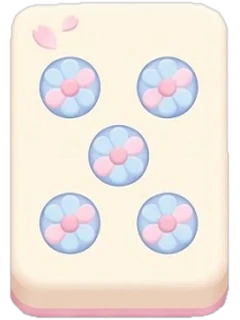
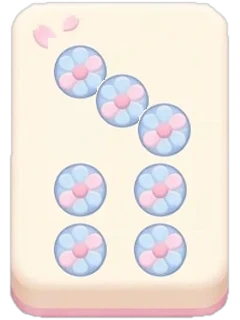
麻雀の七筒と赤五索の絵を直す
七筒の絵に丸が 5 つ描かれていた（五筒と同じ）ので、八筒の丸を使って
七つの丸の絵に作り直した。赤五索は「五」の字がなかったので、ふつうの
五索の竹を赤にした絵にした。
つよい CPU のオセロのテストが、遅い機械で 1 分の待ち時間をこえて落ちる
ことがあるので、待ち時間だけを 3 分に延ばす（確かめる中身は同じ）。

Claude-Session: https://claude.ai/code/session_01MCWA1e7utU32pKsHHFCpX5

diff --git a/src/changelog.ts b/src/changelog.ts
@@ -19,6 +19,7 @@ export type ChangelogEntry = {
 };
 
 export const CHANGELOG: ChangelogEntry[] = [
+  { id: '2026-10-15-mahjong-tile-art-fix', date: '2026-10-15', kind: 'fix', where: ['社務所Web'], title: '麻雀の七筒と赤五索の絵を直す', items: ['七筒の絵が五筒になっていたのを、七つの丸の絵に直しました。', '赤五索の絵に「五」が入っていなかったので、ほかの索子と同じく「五」入りの赤い絵にしました。'] },
   { id: '2026-10-15-versus-live-sync', date: '2026-10-15', kind: 'fix', where: ['社務所Web'], title: 'メンバー対戦のオセロで、相手の手がすぐ出るように', items: ['部屋を作った・入った・自分が打ったあと、盤の自動の読み直しが止まり、相手の手が再読み込みするまで出ませんでした。2 秒ごとに相手の手が出るように直しました。'] },
   { id: '2026-10-15-staff-gift-free', date: '2026-10-15', kind: 'improve', where: ['Discord'], title: '運営の送金は手数料・上限なし', items: ['神職・宮司の /送金 と 🎁 銭の贈り物は、手数料 20% がかからず、1 回・1 日の上限もなくなりました（最低の枚数と残高は確かめます）。'] },
   { id: '2026-10-15-keiba-stud-solo-foal', date: '2026-10-15', kind: 'improve', where: ['社務所Web'], title: '種牡馬の馬主も、自分の種牡馬だけで産駒を迎えられるように', items: ['繁殖牝馬を持っていなくても、自分の種牡馬だけで産駒を迎えられます（1 頭につき 3 頭まで。前の仕組みの産駒も数えます）。ほかの馬主の母に父として選ばれるのは、数に入りません。', '前の仕組みで繁殖入りしたセン馬は、親になれないので「引退」と出すようにしました。'] },

diff --git a/test/casinoEngines.test.ts b/test/casinoEngines.test.ts
@@ -385,7 +385,7 @@ describe('⚫ オセロ', () => {
       if (winnerOf(s.board) === 'W') wins++;
     }
     expect(wins).toBeGreaterThanOrEqual(5);
-  }, 60_000);
+  }, 180_000); // つよい CPU は深く読むので、遅い機械では 1 分をこえる
 });
 
 
